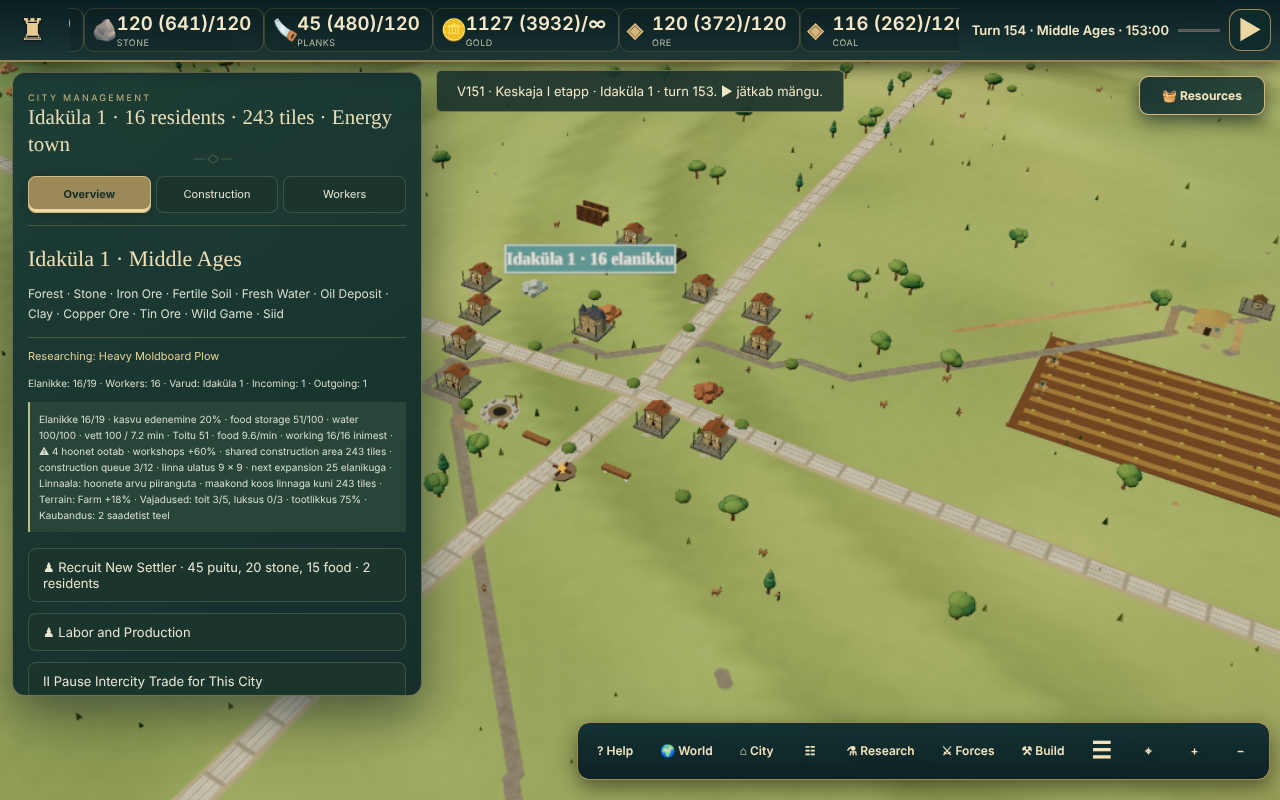
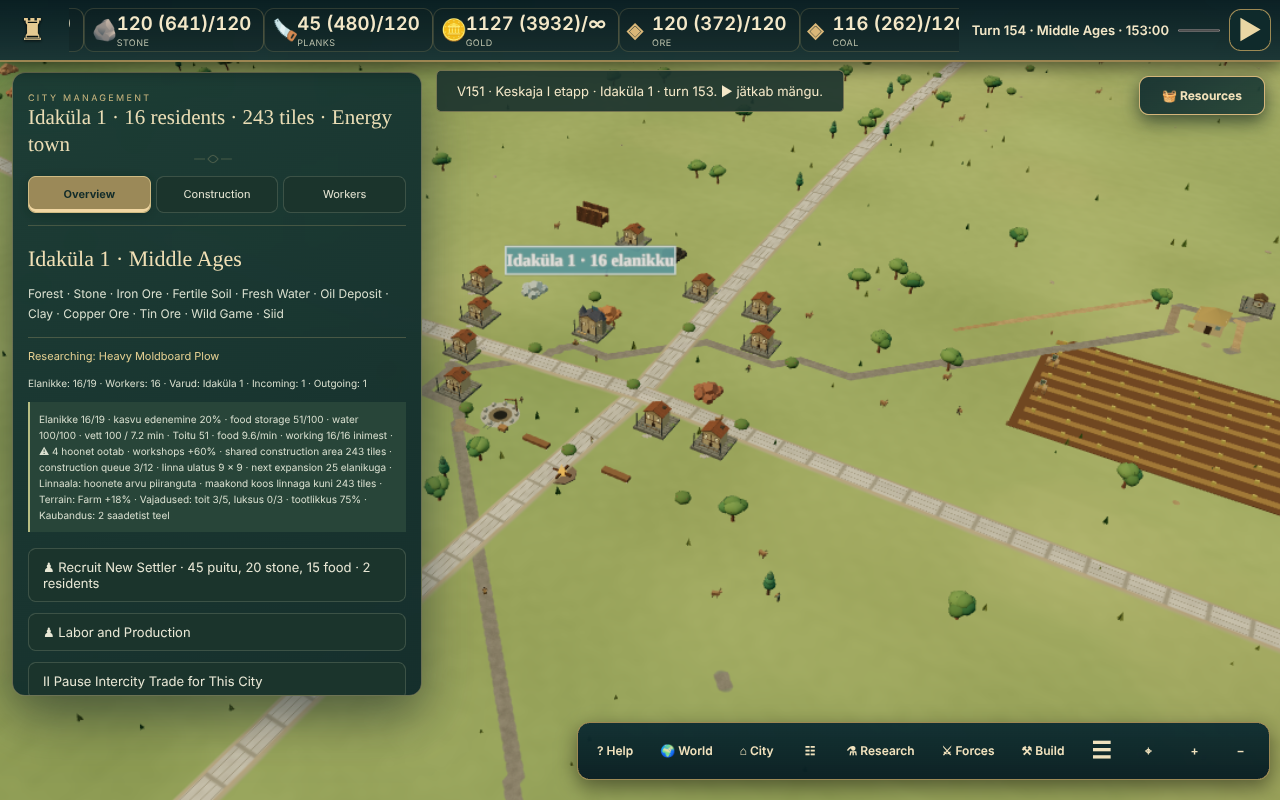
V153: smooth detail-map relief (B-spline cell heights, fractal ridges instead of sine waves)
Claude-Session: https://claude.ai/code/session_01Gx58TjjTEdj2SytS2vAG3o

diff --git a/continuous-landscape.js b/continuous-landscape.js
@@ -35,8 +35,8 @@ function prep(game){
    const p=cellAt(minX,minZ),q=cellAt(maxX,maxZ);
    const cc0=p?.c??clamp(Math.floor((minX+650)/50),0,COLS-1),cc1=q?.c??clamp(Math.floor((maxX+650)/50),0,COLS-1);
    const rr0=p?.r??clamp(Math.floor((minZ+550)/50),0,ROWS-1),rr1=q?.r??clamp(Math.floor((maxZ+550)/50),0,ROWS-1);
-   a.waterHeight??=Math.max(.86,game.atlasHeight(a.x,a.z)-(2.4+Math.min(2.1,a.width*.20)));
-   b.waterHeight??=Math.max(.86,game.atlasHeight(b.x,b.z)-(2.4+Math.min(2.1,b.width*.20)));
+   a.waterHeight??=Math.max(.86,smoothAtlasHeight(game,a.x,a.z)-(2.4+Math.min(2.1,a.width*.20)));
+   b.waterHeight??=Math.max(.86,smoothAtlasHeight(game,b.x,b.z)-(2.4+Math.min(2.1,b.width*.20)));
    // A ford belongs to the upstream river cell. Its shallow bed runs across
    // the water, with a short upstream/downstream transition to deep channel.
    const seg={a,b,ford:!!e.c.ford&&!e.c.bridge,fordX:e.c.x,fordZ:e.c.z,
@@ -102,34 +102,46 @@ export function riverNear(game,x,z){
  }
  return {distance:nearest,width,waterHeight,fordStrength};
 }
+// V153: the map cell heights are interpolated with a cubic B-spline (C2 smooth, no flat spot on
+// every cell centre, no overshoot), and relief detail comes from domain-warped fractal noise.
+// Earlier sine "ridges", "folds" and coastal ledges repeated regularly and showed on the detail
+// map as round concentric waves. Visual height only: gameplay uses its own baked detail heights.
+const cellSamples=new WeakMap();
+function samples(game){
+ let a=cellSamples.get(game);if(a)return a;a=new Float32Array(COLS*ROWS);
+ game.cells.forEach((c,i)=>{a[i]=c.land?(c.river&&!c.bridge?Math.max(4,c.h-3.5):Math.max(5,c.h)):Math.min(-6,c.h);});
+ cellSamples.set(game,a);return a;
+}
+const bs=t=>{const t2=t*t,t3=t2*t;return [(1-3*t+3*t2-t3)/6,(4-6*t2+3*t3)/6,(1+3*t+3*t2-3*t3)/6,t3/6];};
+export function smoothAtlasHeight(game,x,z){
+ if(!Number.isFinite(x)||!Number.isFinite(z))return -15;
+ const a=samples(game),fx=(x+650)/S-.5,fz=(z+550)/S-.5,c=Math.floor(fx),r=Math.floor(fz),wu=bs(fx-c),wv=bs(fz-r);
+ let h=0;
+ for(let j=0;j<4;j++){const rr=r-1+j;let row=0;for(let i=0;i<4;i++){const cc=c-1+i;row+=wu[i]*(cc<0||cc>=COLS||rr<0||rr>=ROWS?-15:a[rr*COLS+cc]);}h+=wv[j]*row;}
+ // keep coastlines where the cells put them: blend toward the original height near sea level
+ const o=game.atlasHeight(x,z),k=smooth((Math.abs(o)-1.5)/4);
+ return o+(h-o)*k;
+}
+const n2=(game,x,z)=>game.smooth(x,z);
+const ridged=v=>{const r=1-Math.abs(2*v-1);return r*r;};
 export function baseHeight(game,x,z){
- const h=game.atlasHeight(x,z);
- // Connected mountainous relief, a smooth scalar field — not individual
- // rocks, peaks, cones or local patches with incompatible boundaries.
+ const h=smoothAtlasHeight(game,x,z);
+ // warped coordinates break any regular pattern
+ const wx=x+(n2(game,x/97+11.3,z/97+4.1)-.5)*70,wz=z+(n2(game,x/97+31.7,z/97+52.9)-.5)*70;
+ // gentle rolling ground on the lowlands (beaches stay flat)
+ const lowland=smooth((h-2.5)/5)*(1-smooth((h-22)/14));
+ const roll=((n2(game,wx/150+3.1,wz/150+7.7)-.5)*2.6+(n2(game,wx/52+19,wz/52+23)-.5)*1.1)*lowland;
+ // mountains: ridged multifractal crests, gullies and broken scarps
  const steep=smooth((h-18)/19);
- const fold=Math.sin(x*.033+Math.sin(z*.015)*1.3)*Math.cos(z*.045-Math.sin(x*.014));
- // Ridge systems are actual elevated continuous terrain, not grey material
- // patches. Two frequencies create mountain crests and steep rock faces.
- const crest=Math.pow(1-Math.abs(Math.sin(x*.052+Math.cos(z*.018)*1.4)*Math.cos(z*.048-x*.011)),2);
- const ridge=(12+25*crest+5.5*Math.max(0,fold))*steep;
-// V69: mountain scarps are real shared 3D elevation. Narrow crests make
-// broken cliffs, with the same metres projected into both map views.
-const jagged=.5+.5*Math.sin(x*.079+Math.cos(z*.043)*1.5)*Math.cos(z*.061-x*.023);
-const scarp=steep*smooth((crest-.16)/.59)*(6.8+8.2*Math.pow(Math.max(0,jagged),2));
-// Intermittent broken coastal ledges (not a continuous seawall).
-const coastal=(smooth((h-3.2)/4)*(1-smooth((h-15)/6)))*4.5*
- Math.pow(Math.max(0,Math.sin(x*.061+z*.029+Math.sin(z*.031))),4);
- // Sloping continental shelf: the underwater seabed is visibly BELOW the
- // sea surface even where riverbeds descend toward the coast.
+ let relief=0;
+ if(steep>0){
+  const r1=ridged(n2(game,wx/165+71,wz/165+13)),r2=ridged(n2(game,wx/72+5,wz/72+91)),r3=ridged(n2(game,wx/31+43,wz/31+27));
+  const scarp=smooth((r2-.55)/.18)*(6+10*r1);
+  relief=steep*(18+50*r1+30*r2*(.35+.65*r1)+9*r3*(.4+.6*r2)+scarp);
+ }
  const sub=Math.max(0,.72-h);
  const oceanFloor=sub?(2.5*smooth(sub/7)+sub*.10):0;
- // Folded rock ridges and eroded gullies are a single height field in both
- // views. A broad ridge supports smaller crags; no independent scaled rocks.
- const spine=1-Math.abs(Math.sin(x*.046+Math.sin(z*.019)*1.2)*Math.cos(z*.039-x*.014));
- const fracture=Math.abs(Math.sin(x*.16+z*.075+Math.sin(z*.083)*.65));
- const ledge=Math.sin((h+ridge)*.57+Math.sin(x*.037+z*.023));
- const fractured=steep*(spine*12+smooth((spine-.55)/.035)*20+smooth((spine-.82)/.030)*24+Math.pow(fracture,1.4)*6+ledge*2.1);
- return h+ridge+scarp+fractured+coastal-oceanFloor;
+ return h+roll+relief-oceanFloor;
 }
 export function worldElevation(game,x,z){
  const base=baseHeight(game,x,z),{distance:d,width:w,waterHeight,fordStrength=0}=riverNear(game,x,z);

diff --git a/index.html b/index.html
@@ -102,10 +102,10 @@
     "./bronze-city-v111.js?v=118a": "./bronze-city-v111.js?v=118a",
     "./labor-ui.js": "./labor-ui.js?v=131a",
     "./economy.js": "./economy.js?v=147a",
-    "./continuous-landscape.js": "./continuous-landscape.js?v=131a",
+    "./continuous-landscape.js": "./continuous-landscape.js?v=153a",
     "./economy.js?v=117a": "./economy.js?v=147a",
-    "./continuous-landscape.js?v=123a": "./continuous-landscape.js?v=131a",
-    "./continuous-landscape.js?v=85a": "./continuous-landscape.js?v=131a",
+    "./continuous-landscape.js?v=123a": "./continuous-landscape.js?v=153a",
+    "./continuous-landscape.js?v=85a": "./continuous-landscape.js?v=153a",
     "./labor-ui.js?v=86a": "./labor-ui.js?v=131a",
     "./productivity-techs-v88.js": "./productivity-techs-v88.js?v=131a",
     "./science.js?v=117a": "./science.js?v=141a",

diff --git a/AI_LOGI.md b/AI_LOGI.md
@@ -238,3 +238,27 @@ Muudetud on ainult välimust. Mänguandmed, kaart ja salvestused on samad.
 - PASS: `TEST_V48` (uuendatud V152 jaoks: kuni 9 liiki ja asulamudel), `TEST_V88_EXPLORATION_UI`, `TEST_V143_BROWSER`, `TEST_V148`, `TEST_V149_BROWSER`, `TEST_V152`.
 - Mudelite eelvaade: `artifacts-v152/models.html?m=nature` või `?m=city` (kaust on gitignore'is).
 - Versioonid: `index.html` / `boot-v83.js` → `?v=152a`; `landscape-v149.js?v=152a`; `world-models-v152.js?v=152a`; `atlas-biomes-v47.js?v=152a`.
+
+## V153 – detailkaardi kõrgused sujuvaks (Claude, 2026-10-24)
+
+Kasutaja: „Kõrguste vahe detailkaardil on nagu ümmargused lained, mitte sujuv.“
+Muudetud on ainult visuaalset kõrgust (`continuous-landscape.js`). Mängu enda detailkõrgused (`world-details.js` `detailHeight`, küpsetatud kõrgused) ja kaardiandmed on samad.
+
+### Põhjus
+- `baseHeight()` lisas siinuspõhiseid mustreid: `crest`, `fold`, `spine`, `fracture`, `ledge` ja eriti `coastal` (sin⁴ ribad kõigil madalikel kõrgusega 3…21 m). Need kordusid korrapäraselt ja detailkaardil (4,5× suurendus) paistsid need ümarate kontsentriliste lainetena.
+- `game.atlasHeight` on smoothstep-bilineaarne interpolatsioon, millel on iga 50 m ruudu keskel tasane koht. Tulemuseks olid astmelised kühmud ehk terrassid.
+
+### Parandus
+- Uus `smoothAtlasHeight(game,x,z)`: kuup-B-splain 4×4 ruudu kõrgusest (C2-sujuv, ei tee üle- ega alavisset). Meretaseme lähedal (|h| < 1,5…5,5) sulandub see tagasi algsesse kõrgusse, et rannajooned jääksid paika.
+- `baseHeight()`:
+  - madalikul domeeni-väänatud õrn lainjus (±1,3 m, rannad tasased);
+  - mägedes *ridged multifractal* müra (3 oktaavi `game.smooth`-iga) ja katkendlikud astangud. Korduvaid siinusmustreid enam pole.
+- Jõe veetase (`prep` → `waterHeight`) kasutab samuti `smoothAtlasHeight`-i.
+- Kõrgusjaotus jäi peaaegu samaks (seeme 142023):
+  - mäed p5/p50/p95: 56/94/144 → 60/94/139;
+  - madalik: 4/19/66 → 3/18/65.
+  Lumepiir ja kaljuvärvid töötavad endiselt.
+- `index.html`: `continuous-landscape.js` → `?v=153a`.
+
+### Testid
+PASS: `TEST_V67`, `TEST_V48`, `TEST_V152`, `TEST_V88_EXPLORATION_UI`, `TEST_V149_BROWSER`, `TEST_V143_BROWSER`, `TEST_V151_BROWSER`.

diff --git a/MUUDATUSED_V153.md b/MUUDATUSED_V153.md
@@ -1,0 +1,6 @@
+# Kuningriigid V153 – sujuvad kõrgused detailkaardil
+
+- Detailkaardil pole enam ümaraid kontsentrilisi lainetusi ega astmelisi kühme.
+- Madalik on õrnalt lainjas, mäeharjad ja astangud on looduslikult ebakorrapärased.
+- Mäestikud jäid sama kõrgeks, rannajooned ja jõed on samas kohas.
+- Mängureeglid ja salvestused jäid samaks.
